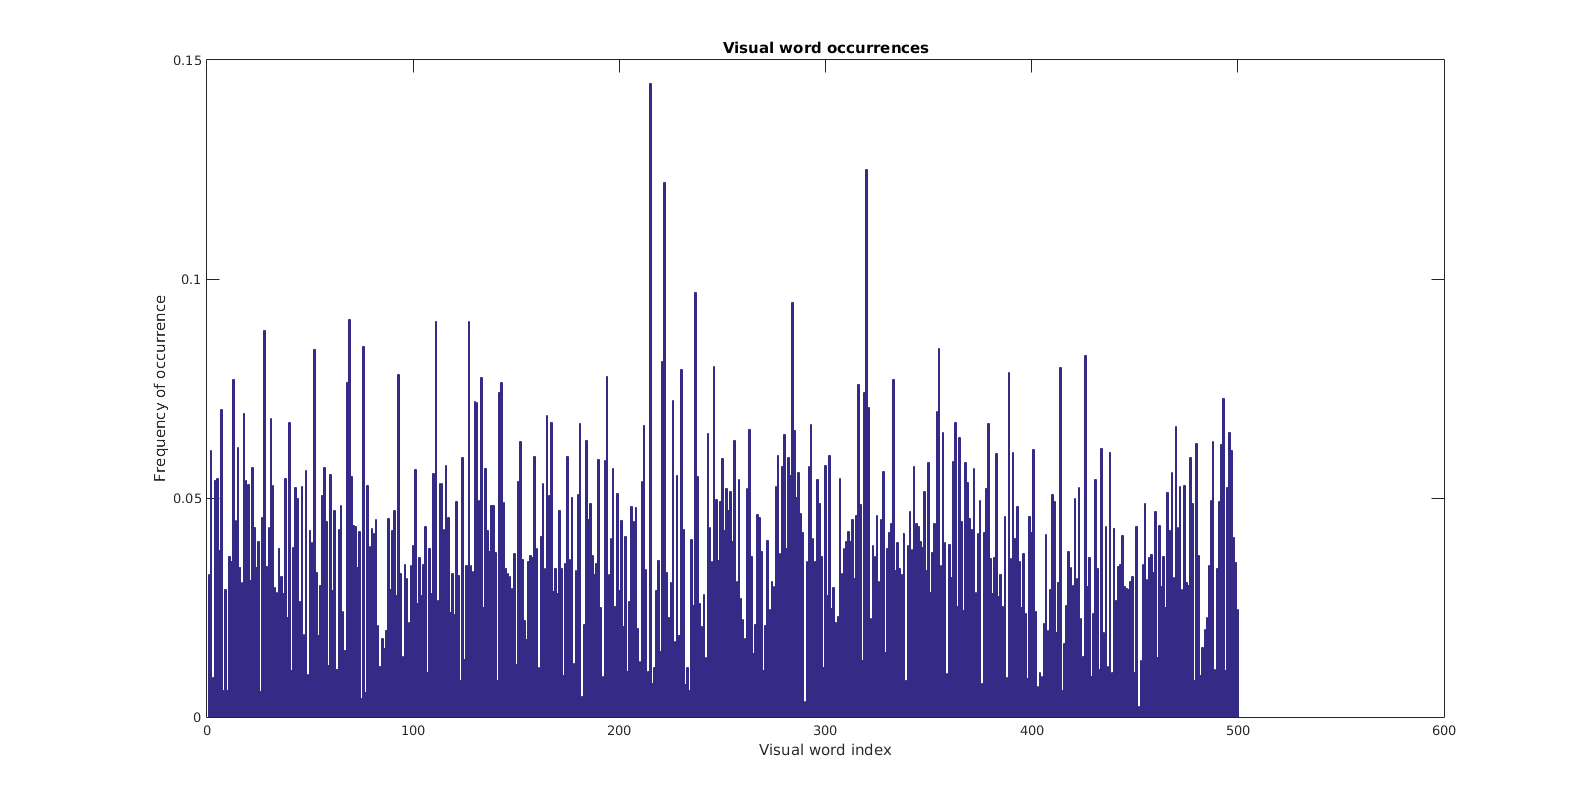
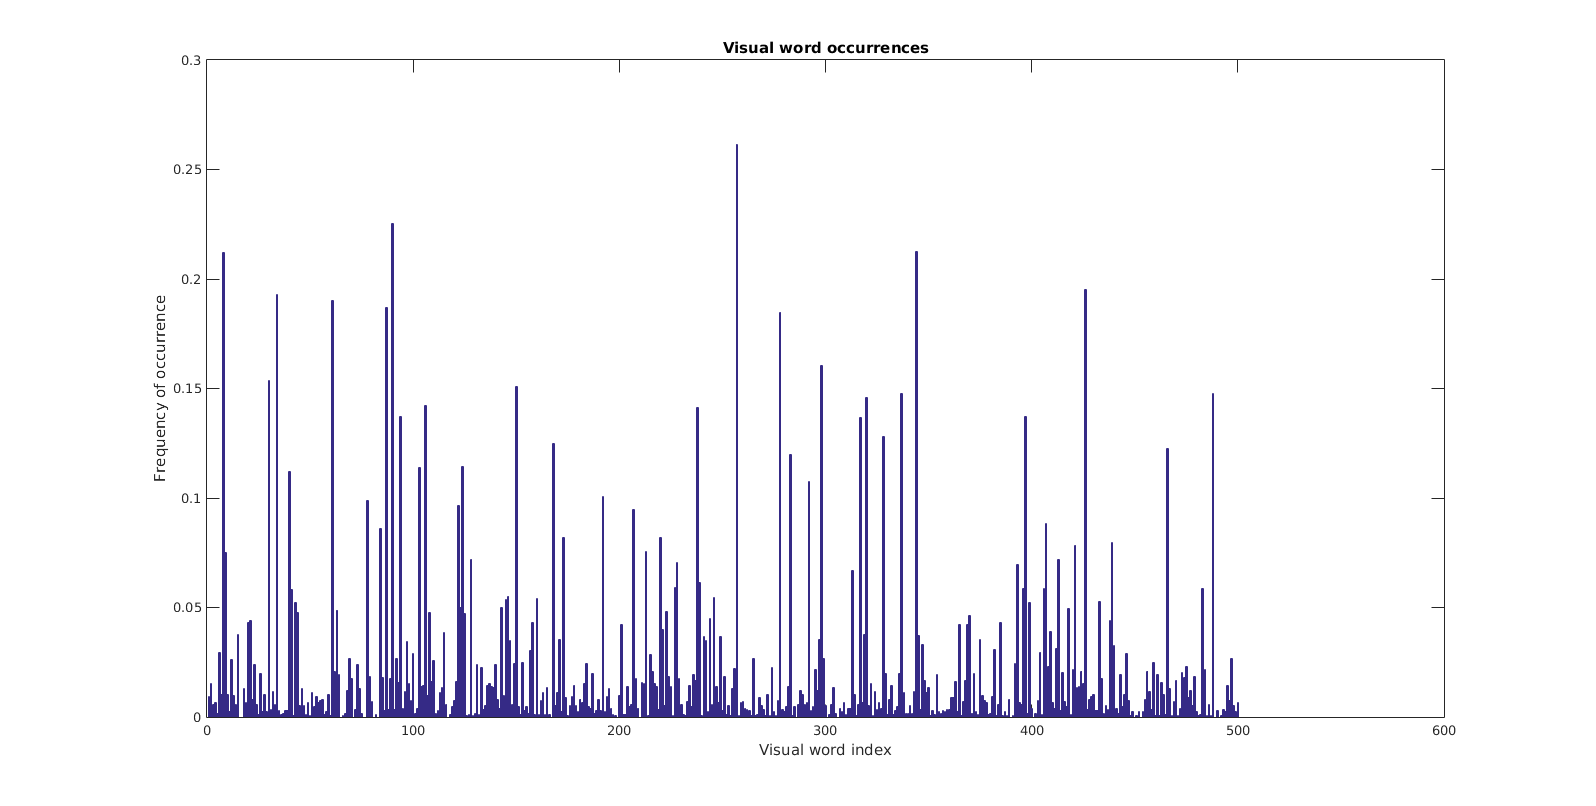
updated BOF results for resized images

Changed region(s): [[0.1228, 0.2171, 0.7982, 0.8995]]

diff --git a/src/bof_behavior.m b/src/bof_behavior.m
@@ -1,7 +1,7 @@
 trainingFolder = '../data/images/categorized';
 testingFolder = '../data/images/sampleImages';
-imgSets = [ imageSet(fullfile(trainingFolder, 'sparse')), ...
-            imageSet(fullfile(trainingFolder, 'dense')) ];
+imgSets = [ imageSet(fullfile(trainingFolder, 'idle')), ...
+            imageSet(fullfile(trainingFolder, 'cheering')) ];
 
 { imgSets.Description } % display all labels on one line
 [imgSets.Count]         % show the corresponding count of images
@@ -16,15 +16,15 @@ imgSets = partition(imgSets, minSetCount, 'randomize');
 
 [trainingSets, validationSets] = partition(imgSets, 0.3, 'randomize');
 
-sparse     = read(trainingSets(1),1);
-dense = read(trainingSets(2),1);
+idle     = read(trainingSets(1),1);
+cheering = read(trainingSets(2),1);
 
 figure
 
 subplot(1,3,1);
-imshow(sparse)
+imshow(idle)
 subplot(1,3,2);
-imshow(dense)
+imshow(cheering)
 
 bag = bagOfFeatures(trainingSets);
 
